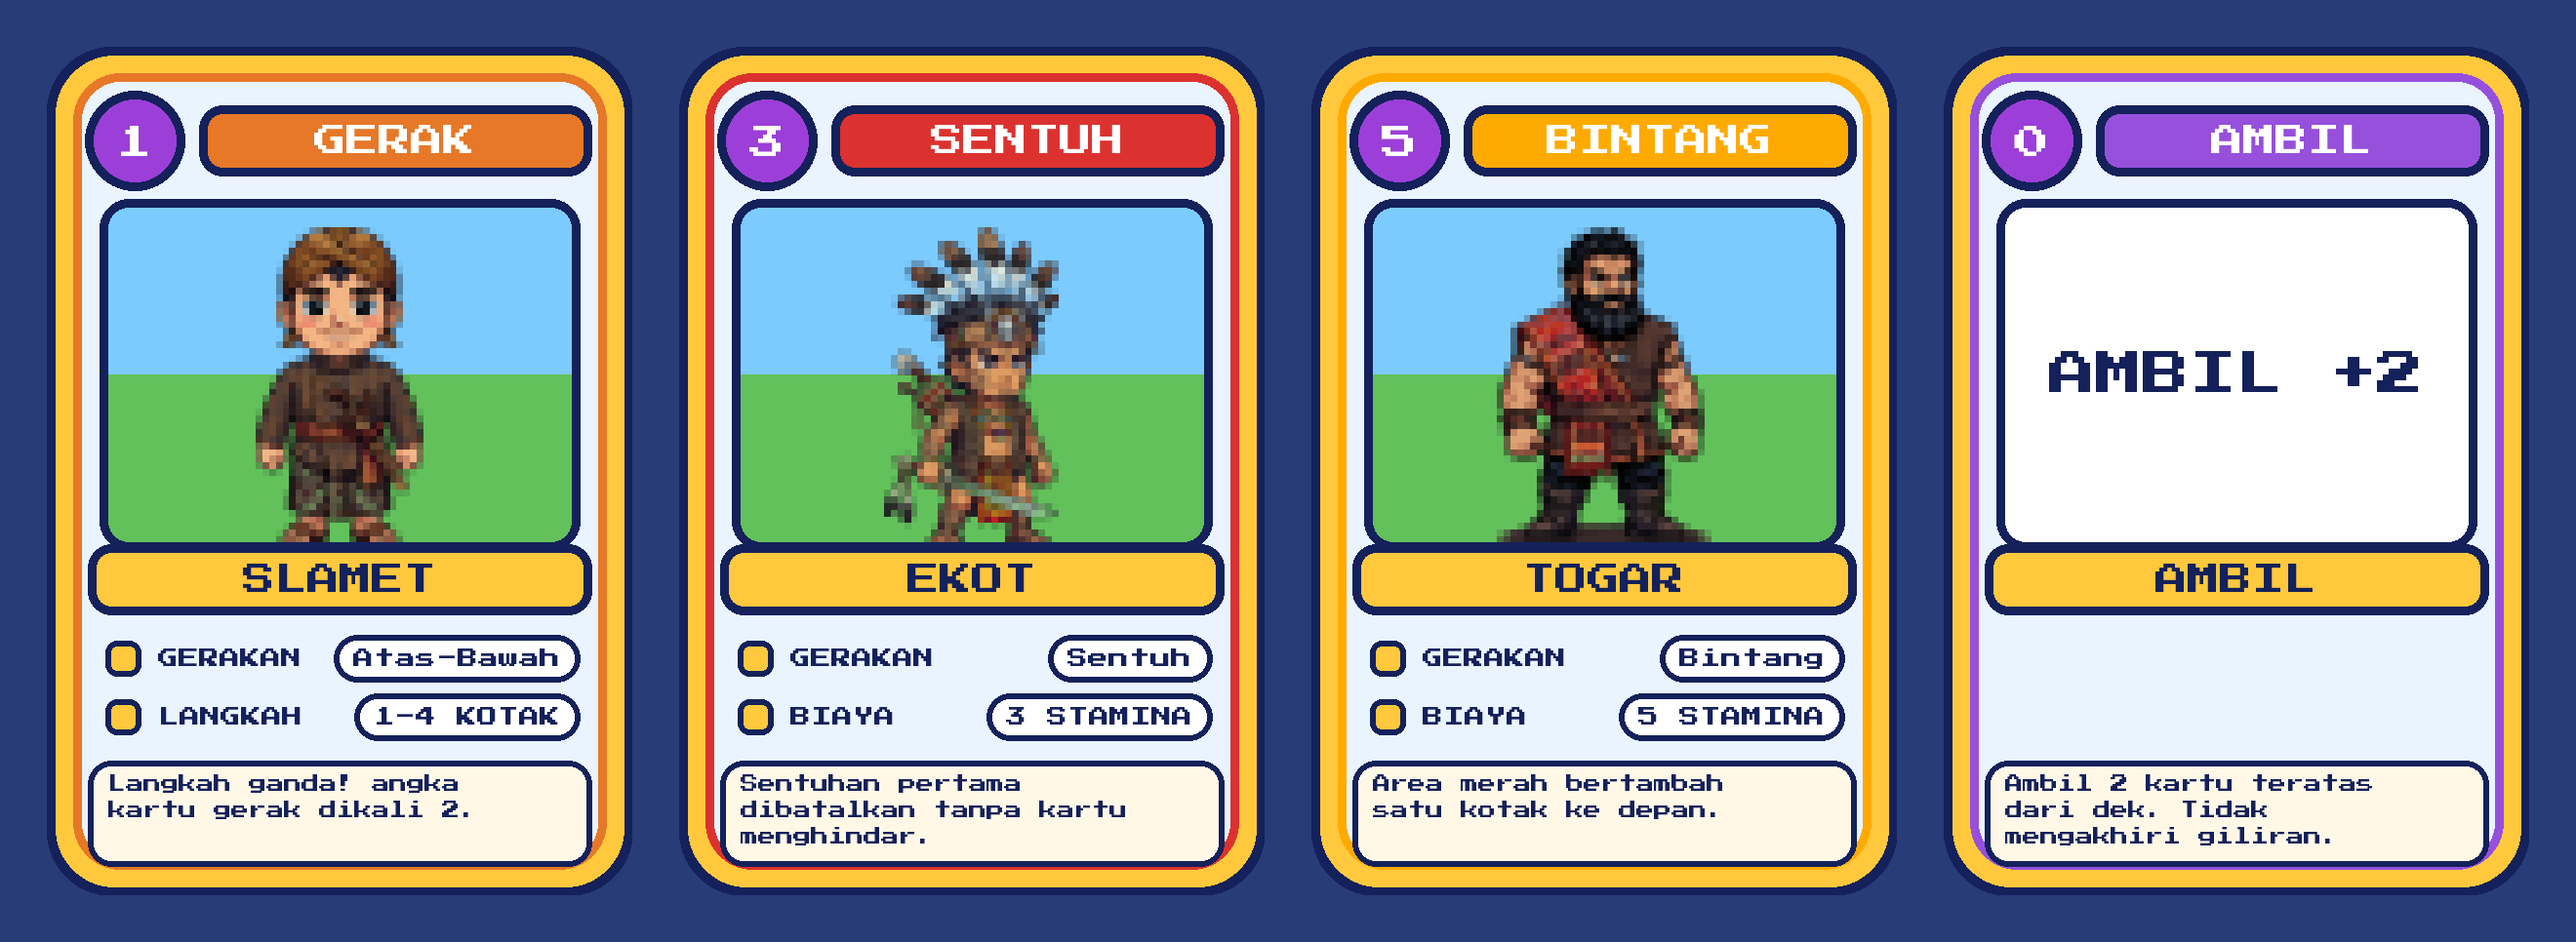
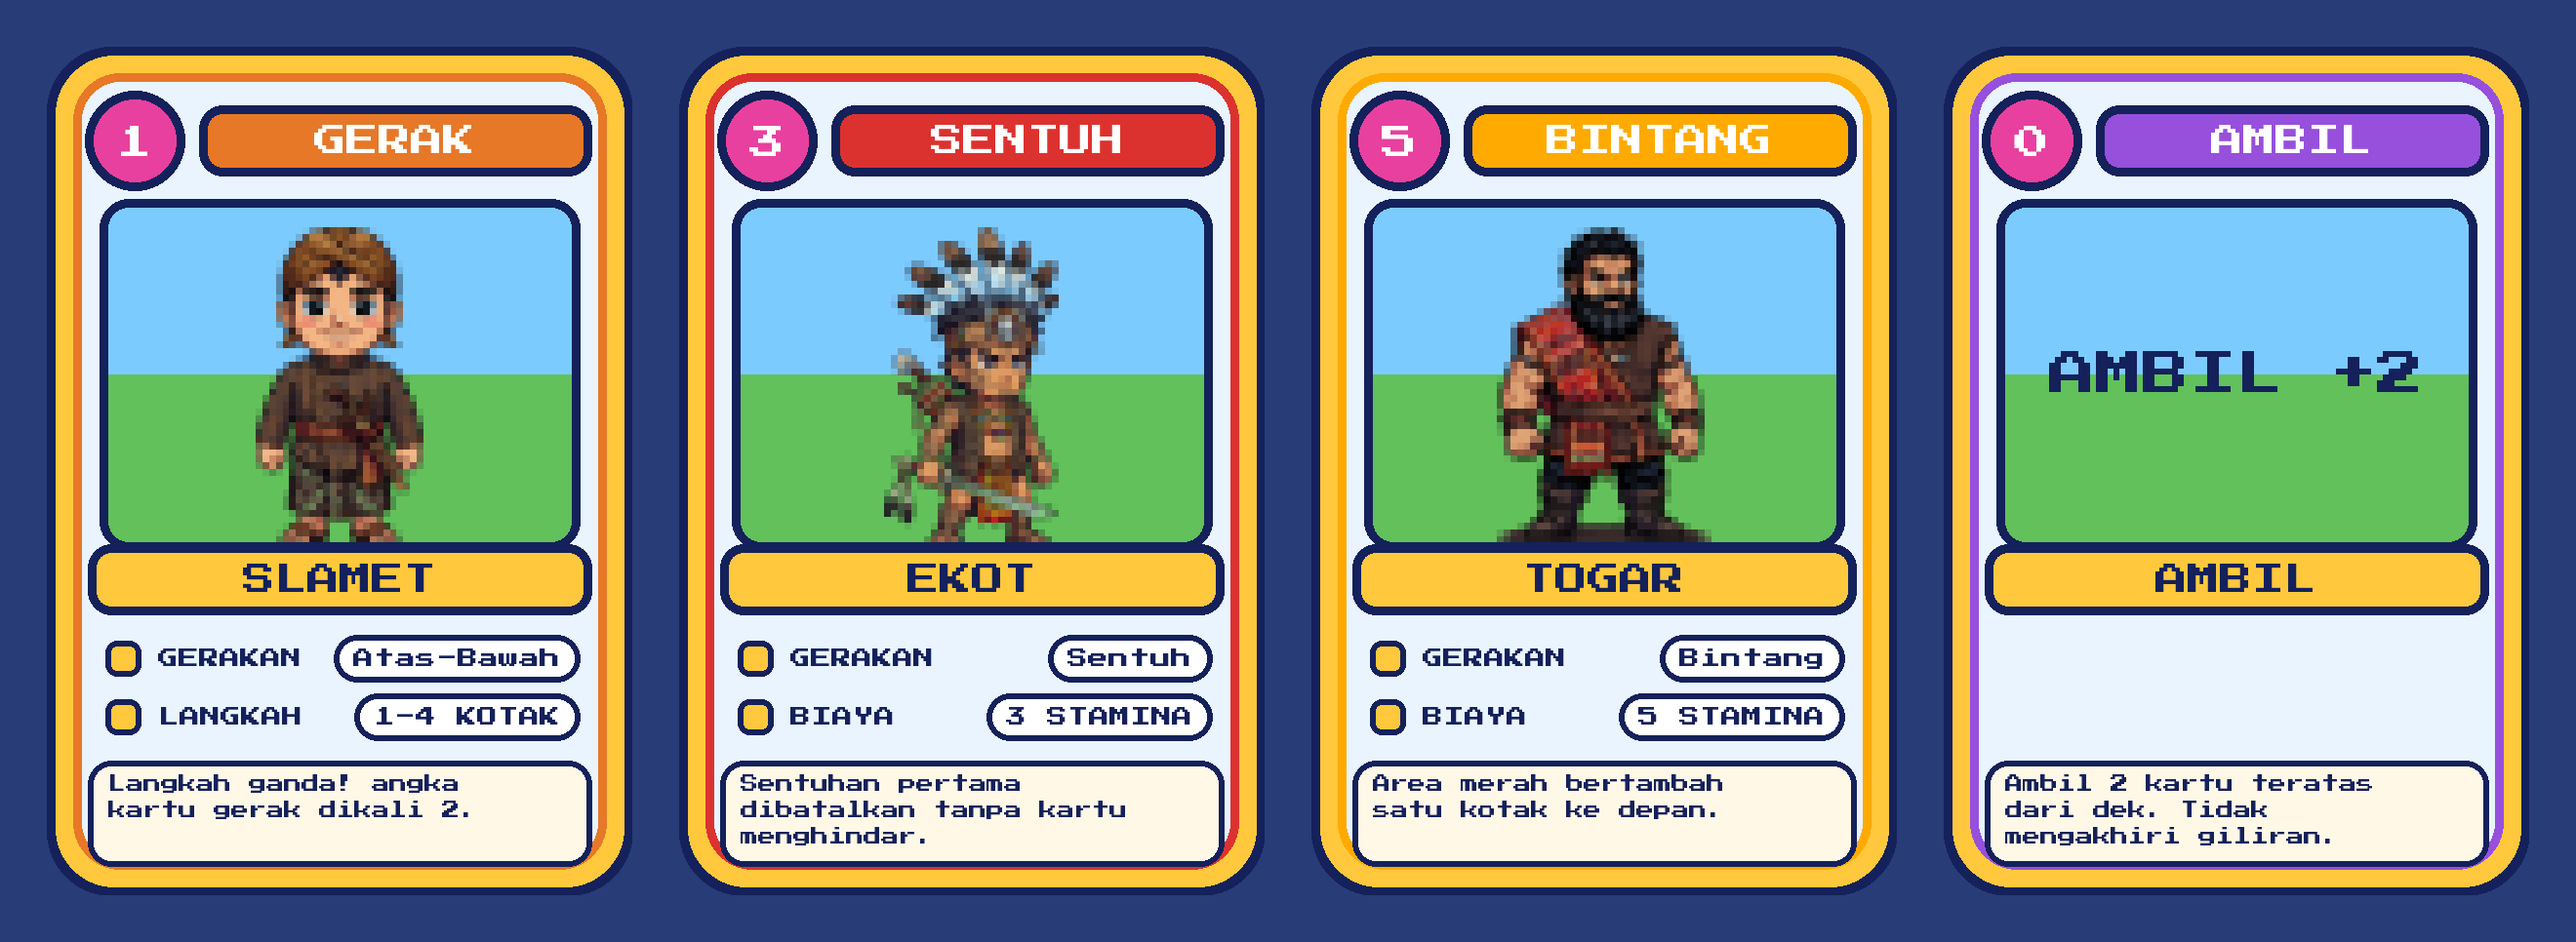
Preview baru mengikuti gaya screenshot: papan petak krem-oranye, kartu lencana merah muda

diff --git a/preview/index.html b/preview/index.html
@@ -10,10 +10,10 @@
     --wall: #4e342e;
     --red: #e53935;
     --white: #ffffff;
-    --field: #c5e1a5;
-    --field-alt: #aed581;
-    --start: #66bb6a;
-    --below: #8d6e63;
+    --field: #f8ccaa;
+    --field-alt: #eeba94;
+    --start: #62c15a;
+    --below: #ecce8c;
     --end: #90caf9;
     --threat: rgba(229, 57, 53, 0.5);
     --attacker: #1e88e5;
